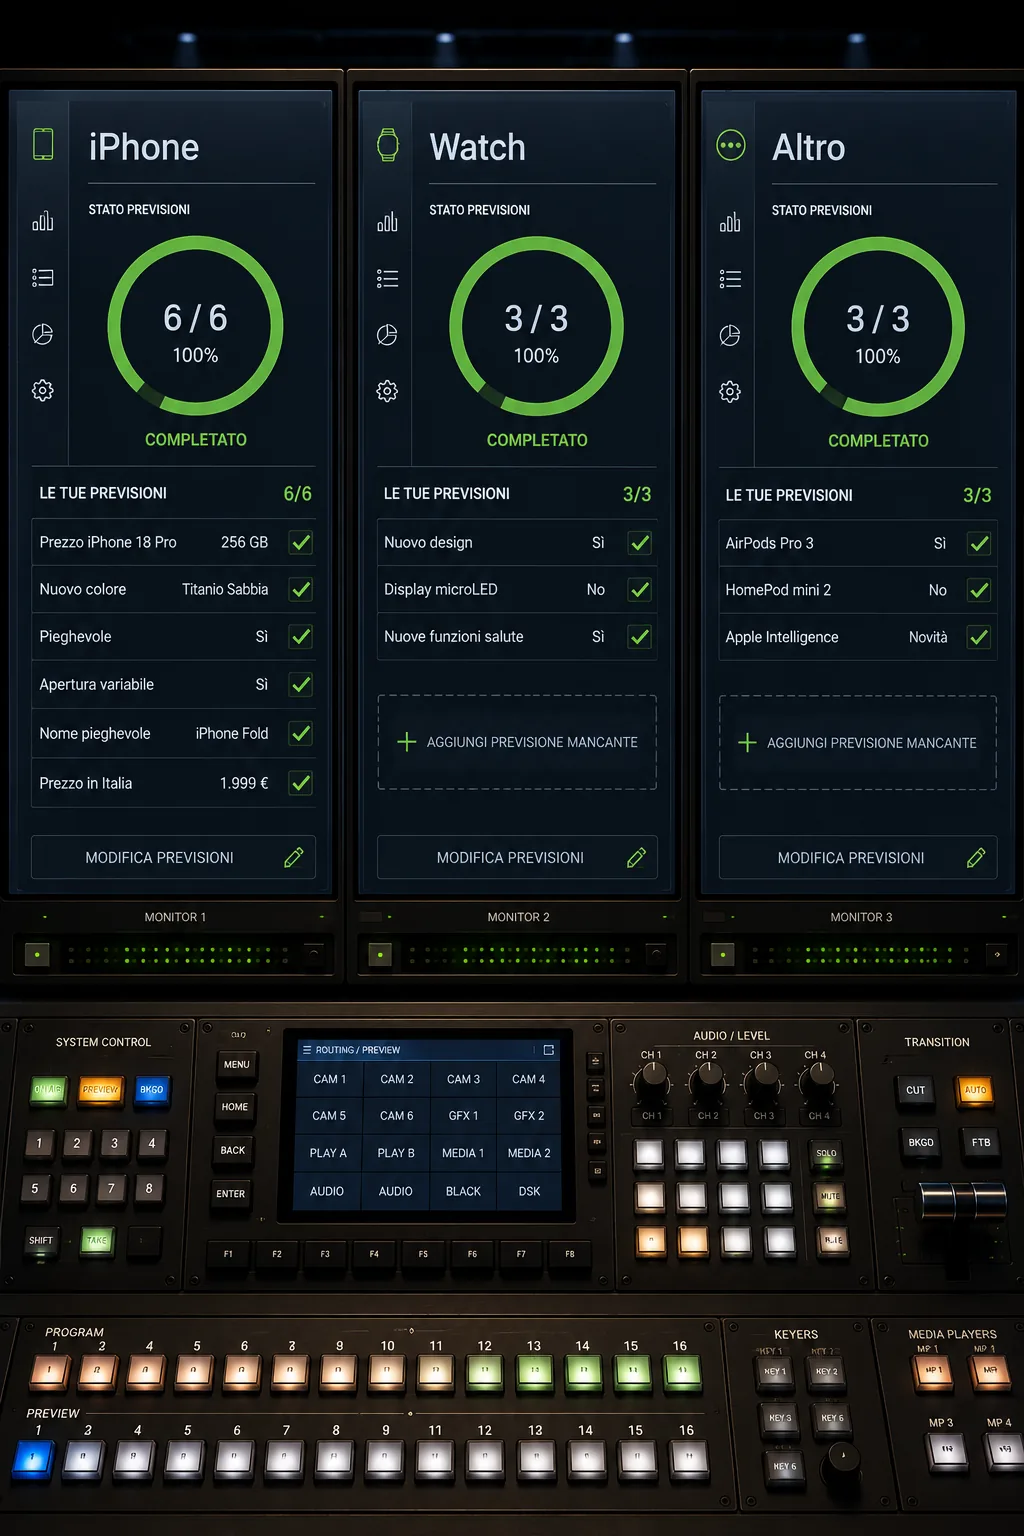
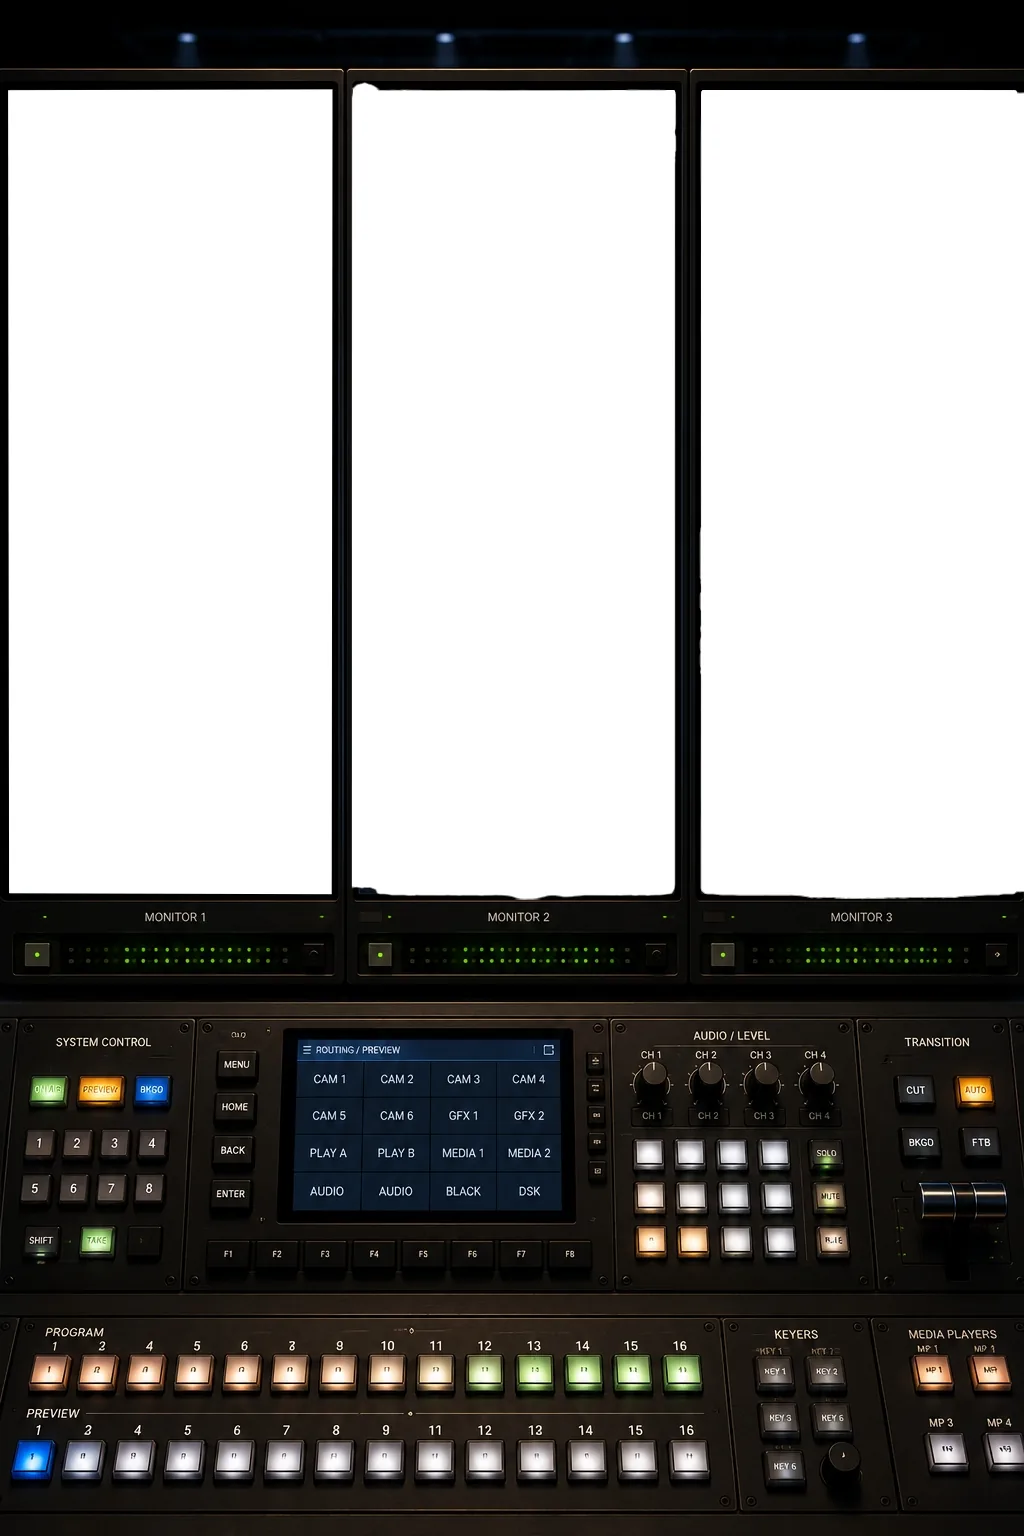
S6: i tre monitor mostrano il riepilogo dentro lo schermo disegnato
Il nuovo fondale bg_control_room_monitors ha tre schermi bianchi
ritagliati apposta per contenerci l'interfaccia. I tre pannelli non
stanno piu' in una griglia sovrapposta al fondale: ognuno si aggancia
pixel per pixel a uno dei tre schermi (ancoraMonitor in engine.js),
stessa tecnica del terminale nella registrazione (SCHERMO_FONDALE /
ancoraTerminale). Spazio verticale generoso dentro ogni schermo, quindi
oltre al titolo/anello ora c'e' anche il conteggio domande/facoltative.
Il bottone di conferma resta un overlay a parte, fisso sulla plancia; il
dettaglio di un monitor resta a schermo intero come prima.

diff --git a/game/engine.css b/game/engine.css
@@ -503,37 +503,38 @@ html,body{height:100%;background:#0a0a0f;overflow:hidden;overscroll-behavior:non
 .gcell.fatta:hover{background:#1b1f33}
 
 /* ---------- [S6] il riepilogo nella sala regia ----------
-   Tre monitor, uno per macroargomento, sopra il fondale control_room_monitors.
-   Sta fuori da #boxwrap (come #regole): gli serve tutto lo schermo. Il tocco
-   su un monitor apre il dettaglio, che copre la griglia; "torna" lo richiude.
-   Il bottone che chiude la schedina sta sulla griglia, non nel dettaglio. */
-/* niente justify-content:center: se il contenuto (griglia + bottone) e'
-   piu' alto dello schermo (schermi bassi, testo che va a capo), il centraggio
-   lo spingerebbe meta' sopra e meta' sotto i bordi di #stage, che taglia
-   (overflow:clip) senza modo di raggiungere la parte tagliata. overflow-y:auto
-   qui e' la rete di sicurezza; il margin:auto sui due figli (sotto) centra
-   quando c'e' spazio e si azzera da solo quando non basta, lasciando scorrere
-   dall'alto invece di tagliare. */
-#monitorwrap{position:absolute;inset:0;z-index:7;display:none;flex-direction:column;
- justify-content:flex-start;overflow-y:auto;-webkit-overflow-scrolling:touch;gap:16px;
- padding:8vh calc(4vw + env(safe-area-inset-right,0px)) calc(4vh + env(safe-area-inset-bottom,0px))
-  calc(4vw + env(safe-area-inset-left,0px));
- background:linear-gradient(rgba(4,6,12,.15), rgba(4,6,12,.55) 60%, rgba(4,6,12,.72))}
-#monitorwrap.on{display:flex}
+   Tre monitor, uno per macroargomento, gia' disegnati dentro il fondale
+   control_room_monitors. I tre pannelli .monschermo non stanno in una
+   griglia sovrapposta: ognuno viene agganciato pixel per pixel a uno dei tre
+   schermi bianchi del fondale (ancoraMonitor() in engine.js — stessa tecnica
+   del terminale in registrazione, vedi SCHERMO_FONDALE/ancoraTerminale). Il
+   tocco su un monitor apre il dettaglio a schermo intero; "torna" lo
+   richiude. Il bottone che chiude la schedina resta un overlay a parte, non
+   dentro un monitor: sta fisso sulla plancia, sempre nello stesso posto. */
+#monitorwrap{position:absolute;inset:0;z-index:7;display:none;pointer-events:none}
+#monitorwrap.on{display:block}
 
-#mongriglia{display:flex;gap:8px;flex:none;margin-top:auto}
-.moncard{flex:1;min-width:0;display:flex;flex-direction:column;align-items:center;gap:8px;
- background:rgba(10,14,24,.86);border:2px solid rgba(120,220,180,.4);border-radius:10px;
- padding:10px 6px;color:#eafff2;font-family:inherit;cursor:pointer;
- box-shadow:0 0 18px rgba(0,0,0,.5);
- animation:monentra .5s cubic-bezier(.2,.9,.3,1) backwards}
-.moncard:nth-child(2){animation-delay:.08s}
-.moncard:nth-child(3){animation-delay:.16s}
-.moncard:hover,.moncard:focus{border-color:rgba(120,220,180,.8);outline:none}
-.moncard.fatta{border-color:#4ce08a;box-shadow:0 0 20px rgba(76,224,138,.35)}
-@keyframes monentra{from{opacity:0;transform:translateY(10px) scale(.94)}to{opacity:1;transform:none}}
+#monschermi{position:absolute;inset:0}
 
-.montit{font-size:clamp(8px,2.6vw,12px);letter-spacing:.06em;color:#fff}
+/* posizione e misura vere arrivano da JS (ancoraMonitor): qui solo
+   l'aspetto. Il pannello riempie lo schermo disegnato da bordo a bordo, cosi'
+   il contenuto si distribuisce su tutta l'altezza vera dello schermo invece
+   di stare accalcato in un angolo (spazio verticale generoso: ~52% del
+   fondale, va usato). */
+.monschermo{position:absolute;pointer-events:auto;display:flex;flex-direction:column;
+ align-items:center;justify-content:space-evenly;gap:4px;width:100%;
+ background:#0a0d16;border:0;border-radius:6px;overflow:hidden;
+ padding:6% 8%;color:#eafff2;font-family:inherit;cursor:pointer;
+ box-shadow:inset 0 0 24px rgba(0,0,0,.6);
+ animation:msaccendi .6s ease backwards}
+.monschermo:nth-child(2){animation-delay:.12s}
+.monschermo:nth-child(3){animation-delay:.24s}
+.monschermo:hover,.monschermo:focus{outline:none;
+ box-shadow:inset 0 0 24px rgba(0,0,0,.6),0 0 0 2px rgba(120,220,180,.6)}
+.monschermo.fatta{box-shadow:inset 0 0 24px rgba(0,0,0,.6),0 0 0 2px rgba(76,224,138,.5)}
+@keyframes msaccendi{from{opacity:0;filter:brightness(2.4)}to{opacity:1;filter:none}}
+
+.montit{flex:none;font-size:clamp(8px,3.4vw,13px);letter-spacing:.06em;color:#fff}
 
 /* l'anello: un cerchio pieno (il "buco", colore del pannello) sopra a un
    conic-gradient verde. "--pct" e' 0-100 e si anima con una transizione CSS
@@ -541,27 +542,42 @@ html,body{height:100%;background:#0a0a0f;overflow:hidden;overscroll-behavior:non
    Chrome/Edge): dove non e' supportata il cerchio compare gia' pieno, invece
    di animarsi, senza spezzare niente. */
 @property --pct{syntax:'<number>';inherits:true;initial-value:0}
-.monanello{position:relative;width:clamp(46px,15vw,64px);aspect-ratio:1;border-radius:50%;
+.monanello{flex:none;position:relative;width:clamp(52px,22vw,84px);aspect-ratio:1;border-radius:50%;
  background:conic-gradient(#4ce08a calc(var(--pct,0)*1%), rgba(255,255,255,.14) 0);
  transition:background 1s cubic-bezier(.2,.8,.2,1)}
 .monbuco{position:absolute;inset:14%;border-radius:50%;background:#10141f}
 .monnum{position:absolute;inset:0;display:flex;flex-direction:column;align-items:center;
  justify-content:center;line-height:1.15;color:#eafff2}
-.monnum b{font-size:clamp(7px,2.1vw,10px)}
-.monnum span{font-size:clamp(5.5px,1.6vw,8px);color:#8fe8b4}
+.monnum b{font-size:clamp(8px,3vw,13px)}
+.monnum span{font-size:clamp(6px,2.2vw,10px);color:#8fe8b4}
 
-.monstato{font-size:clamp(5.5px,1.6vw,8px);letter-spacing:.08em;color:#8fe8b4;text-align:center}
-.moncard:not(.fatta) .monstato{color:#ffd98a}
+/* due righe di conteggio ("DOMANDE 4/4", "FACOLTATIVE 2/3"): piu' leggibili
+   di un elenco di risposte, che a quella larghezza non ci starebbe */
+.msStats{flex:none;display:flex;flex-direction:column;gap:3px;width:100%}
+.msRiga{display:flex;justify-content:space-between;gap:6px;
+ font-size:clamp(5.5px,2vw,9px);letter-spacing:.04em}
+.msEtichetta{color:rgba(234,255,242,.6)}
+.msValore{color:#eafff2}
 
-/* il bottone che chiude la schedina: rosso, fisso sotto la griglia */
-#monconferma{flex:none;margin-bottom:auto;background:#8e2a2a;border:3px solid #ff9a9a;border-radius:8px;
+.monstato{flex:none;font-size:clamp(5.5px,2vw,9px);letter-spacing:.08em;color:#8fe8b4;text-align:center}
+.monschermo:not(.fatta) .monstato{color:#ffd98a}
+
+/* il bottone che chiude la schedina: rosso, un overlay a parte fisso sulla
+   plancia — non si sposta e non dipende dai tre monitor */
+#monconferma{position:absolute;pointer-events:auto;
+ left:calc(6vw + env(safe-area-inset-left,0px));
+ right:calc(6vw + env(safe-area-inset-right,0px));
+ bottom:calc(4vh + env(safe-area-inset-bottom,0px));
+ background:#8e2a2a;border:3px solid #ff9a9a;border-radius:8px;
  color:#fff;font-family:inherit;font-size:clamp(8px,2.3vw,12px);padding:12px 13px;
  cursor:pointer;box-shadow:0 3px 0 rgba(0,0,0,.5);letter-spacing:.04em}
 #monconferma:hover,#monconferma:focus{background:#a83333;outline:none}
 #monconferma:active{transform:translateY(2px);box-shadow:0 1px 0 rgba(0,0,0,.5)}
 
-/* il dettaglio di un monitor: copre la griglia, non e' un pannello a parte */
+/* il dettaglio di un monitor: schermo intero, non un pannello dentro il
+   fondale — resta un overlay a parte come prima */
 #mondettaglio{position:absolute;inset:0;display:none;flex-direction:column;gap:10px;
+ pointer-events:auto;
  padding:8vh calc(4vw + env(safe-area-inset-right,0px)) calc(4vh + env(safe-area-inset-bottom,0px))
   calc(4vw + env(safe-area-inset-left,0px));
  background:#0a0d16}

diff --git a/game/engine.js b/game/engine.js
@@ -1748,7 +1748,7 @@
     if (!el.monitorwrap) return;
     el.monitorwrap.classList.remove('on');
     if (el.mondettaglio) el.mondettaglio.classList.remove('on');
-    if (el.mongriglia) el.mongriglia.innerHTML = '';
+    if (el.monschermi) el.monschermi.innerHTML = '';
     if (el.monlista) el.monlista.innerHTML = '';
   }
 
@@ -2126,13 +2126,55 @@
     };
   }
 
+  /* I tre schermi bianchi disegnati dentro bg_control_room_monitors,
+     misurati sul file sorgente (1024x1536): stessa tecnica di
+     SCHERMO_FONDALE/ancoraTerminale per il terminale della registrazione,
+     ripetuta tre volte. Se il fondale viene ridisegnato, questi quattro
+     numeri per schermo vanno rimisurati. */
+  var SCHERMI_MONITOR = [
+    { x: 0.00879, y: 0.05859, w: 0.31445, h: 0.52279 },   // sinistra
+    { x: 0.34375, y: 0.05469, w: 0.31445, h: 0.52930 },   // centro
+    { x: 0.68457, y: 0.05859, w: 0.31445, h: 0.52539 }    // destra
+  ];
+
+  function ancoraMonitor() {
+    var box = el && el.monschermi;
+    if (!box || !box.children.length) return;
+    var img = el.bg;
+    var nw = img && img.naturalWidth, nh = img && img.naturalHeight;
+    if (!nw || !nh) {
+      if (img && !img.complete) img.addEventListener('load', ancoraMonitor, { once: true });
+      return;
+    }
+    var lw = el.stage ? el.stage.clientWidth : 0;
+    var lh = el.stage ? el.stage.clientHeight : 0;
+    if (!lw || !lh) return;
+    var scala = Math.max(lw / nw, lh / nh);        // object-fit: cover
+    var dw = nw * scala, dh = nh * scala;
+    var ox = (lw - dw) / 2, oy = 0;                // object-position: center top
+    Array.prototype.forEach.call(box.children, function (nodo, i) {
+      var r = SCHERMI_MONITOR[i];
+      if (!r) return;
+      nodo.style.left = (ox + r.x * dw).toFixed(1) + 'px';
+      nodo.style.top = (oy + r.y * dh).toFixed(1) + 'px';
+      nodo.style.width = (r.w * dw).toFixed(1) + 'px';
+      nodo.style.height = (r.h * dh).toFixed(1) + 'px';
+    });
+  }
+  global.addEventListener('resize', function () {
+    if (el.monitorwrap && el.monitorwrap.classList.contains('on')) ancoraMonitor();
+  });
+
   /* ---------------- [S6] il riepilogo nella sala regia ----------------
      Le previsioni per macroargomento, come tre monitor: la vista generale
      mostra a colpo d'occhio quanto manca a ciascuno (di solito niente: le
      core sono gia' tutte fatte), il tocco apre il dettaglio con le singole
      risposte — ancora tutte modificabili — e le facoltative rimaste da
      pescare. Il bottone che chiude la schedina sta nella vista generale, non
-     nel dettaglio: e' un gesto sulla plancia, non su un monitor solo. */
+     nel dettaglio: e' un gesto sulla plancia, non su un monitor solo. I tre
+     riepiloghi vivono dentro gli schermi disegnati nel fondale, non in una
+     griglia sovrapposta: ogni pannello viene posizionato pixel per pixel su
+     uno dei tre schermi (ancoraMonitor). */
   function showMonitor(st) {
     var argomenti = VN.story[st.da || 'argomenti'] || {};
     var chiavi = Object.keys(argomenti);
@@ -2163,8 +2205,24 @@
       return { nodo: d, num: num };
     }
 
+    // Una riga di statistica compatta ("DOMANDE 4/4"): lo spazio verticale
+    // dello schermo e' generoso (misurato sul fondale), meglio due numeri
+    // leggibili che un elenco di risposte troppo stretto per starci dentro.
+    function msRiga(box, etichetta, fatte, totale) {
+      var r = global.document.createElement('div');
+      r.className = 'msRiga';
+      var e = global.document.createElement('span');
+      e.className = 'msEtichetta';
+      e.textContent = etichetta;
+      var v = global.document.createElement('span');
+      v.className = 'msValore';
+      v.textContent = fatte + '/' + totale;
+      r.appendChild(e); r.appendChild(v);
+      box.appendChild(r);
+    }
+
     function griglia() {
-      el.mongriglia.innerHTML = '';
+      el.monschermi.innerHTML = '';
       chiavi.forEach(function (k) {
         var s = statoCategoria(argomenti, k);
         if (s.percento >= 100 && !completatePrima[k]) {
@@ -2172,26 +2230,39 @@
           suona('traguardo');   // un effetto positivo, non un applauso
         }
         var b = global.document.createElement('button');
-        b.className = 'moncard' + (s.percento >= 100 ? ' fatta' : '');
+        b.className = 'monschermo' + (s.percento >= 100 ? ' fatta' : '');
+
         var tit = global.document.createElement('div');
         tit.className = 'montit';
         tit.textContent = s.nome;
         b.appendChild(tit);
+
         var an = anello(s.percento);
         an.num.innerHTML = '<b>' + s.fatte + '/' + s.totale + '</b><span>' + s.percento + '%</span>';
         b.appendChild(an.nodo);
+
+        var stats = global.document.createElement('div');
+        stats.className = 'msStats';
+        msRiga(stats, 'DOMANDE', s.core.filter(function (d) {
+          return !!(s.date.core || {})[d.id];
+        }).length, s.core.length);
+        msRiga(stats, 'FACOLTATIVE', s.extraGiocate.length, s.quotaExtra);
+        b.appendChild(stats);
+
         var stato = global.document.createElement('div');
         stato.className = 'monstato';
         stato.textContent = s.percento >= 100 ? (st.completato || 'COMPLETATO')
           : (st.daFinire || (s.totale - s.fatte) + ' da completare');
         b.appendChild(stato);
+
         b.onclick = function (ev) {
           if (ev && ev.stopPropagation) ev.stopPropagation();
           if (uscito) return;
           apriDettaglio(k);
         };
-        el.mongriglia.appendChild(b);
+        el.monschermi.appendChild(b);
       });
+      ancoraMonitor();
     }
 
     function apriDettaglio(cat) {
@@ -4993,7 +5064,7 @@
       platea: $('platea'), plateaImg: $('plateaImg'),
       ospitewrap: $('ospitewrap'), ospite: $('ospite'), griglia: $('griglia'),
       evpropwrap: $('evpropwrap'), evprop: $('evprop'),
-      monitorwrap: $('monitorwrap'), mongriglia: $('mongriglia'), monconferma: $('monconferma'),
+      monitorwrap: $('monitorwrap'), monschermi: $('monschermi'), monconferma: $('monconferma'),
       mondettaglio: $('mondettaglio'), mondietro: $('mondietro'), montesta: $('montesta'), monlista: $('monlista'),
       quizbar: $('quizbar'), qinfo: $('qinfo'), qtimer: $('qtimer'), qbar: $('qbar'), qsec: $('qsec'),
       multwrap: $('multwrap'), multrighe: $('multrighe'), multresto: $('multresto'), multok: $('multok'),

diff --git a/index.html b/index.html
@@ -207,9 +207,13 @@
 
   <!-- [S6] il riepilogo delle previsioni nella sala regia: tre monitor, uno
        per macroargomento. Sta fuori da #boxwrap come #regole e #quadrowrap:
-       gli serve tutto lo schermo, non il terzo in basso della dialogo. -->
+       gli serve tutto lo schermo, non il terzo in basso della dialogo.
+       #monschermi non ha una griglia sua: i tre pannelli si agganciano ai
+       tre schermi gia' disegnati nel fondale (ancoraMonitor(), stessa
+       tecnica del terminale in registrazione). Il bottone di conferma resta
+       un overlay a parte, non dentro un monitor. -->
   <div id="monitorwrap">
-    <div id="mongriglia"></div>
+    <div id="monschermi"></div>
     <button id="monconferma">CONFERMA IL TUO KEYNOTE</button>
     <div id="mondettaglio">
       <button id="mondietro">&#9664; Monitor</button>
